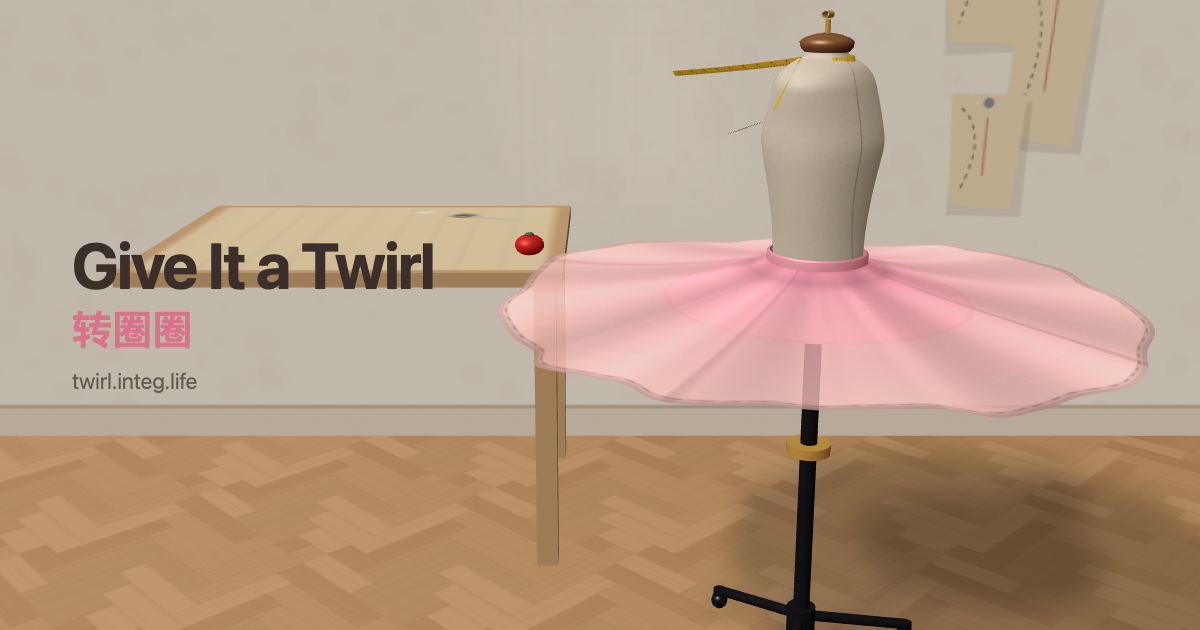
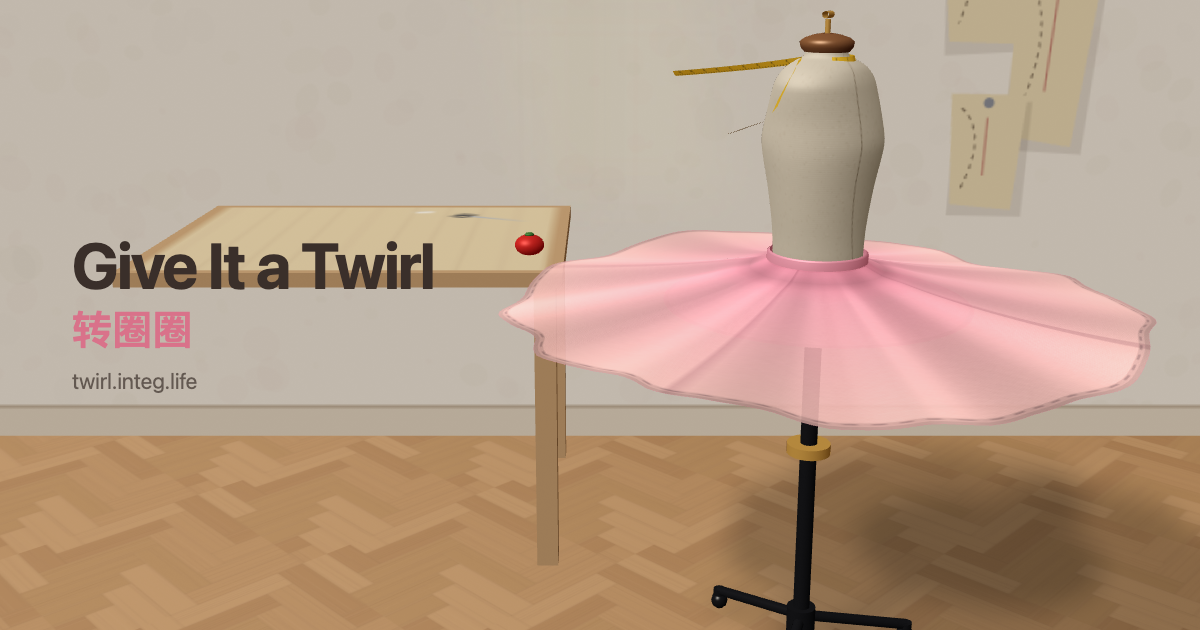
twirl phase 2 review fixes: still finger brakes, swap lift never shows the inside, even denim folds
- fingerV returns 0 once the newest sample is over 60 ms old: a held still finger brakes and wraps
- outgoing skirt collapses its flare, lifts 0.9 m and fades out without its inside pass (0% underside)
- hem flutter phase follows the spin's sign (always runs against it)
- chiffon alpha 0.9, slip longer (drop x0.92): the pole no longer ghosts through at rest
- monotonic hip floor for every circle skirt; denim folds even, lighter creases
- harness: shot=swap (&to=, &after=)

diff --git a/src/twirl/gores.ts b/src/twirl/gores.ts
@@ -51,6 +51,8 @@ export interface Gores {
   hem(): { deg: number; rho: number; z: number }
   /** set every gore's flare (a skirt dropped over the form arrives with its hem spread) */
   spread(deg: number): void
+  /** pull every gore's flare toward its rest angle by factor k (0..1) and calm its swing */
+  relax(k: number): void
   /** world position of the outer layer at material u (0..1 round) and fraction f down */
   point(u: number, f: number): [number, number, number]
 }
@@ -115,12 +117,12 @@ function ringNoise(seed: number, terms = 4) {
 }
 
 /** Fold shape: uneven widths (a warped phase), seeded depths with two or three deep folds, slightly skewed. */
-function folds(seed: number, n: number) {
+function folds(seed: number, n: number, deepFolds = true) {
   const warp = ringNoise(seed + 1, 3)
   const r = rng(seed + 2)
-  const amp = Array.from({ length: n }, () => 0.7 + r() * 0.6)
+  const amp = Array.from({ length: n }, () => (deepFolds ? 0.7 + r() * 0.6 : 0.85 + r() * 0.3))
   const deep = [Math.floor(r() * n), Math.floor(r() * n), Math.floor(r() * n)]
-  for (const d of deep.slice(0, 2 + Math.floor(r() * 2))) amp[d] = 1.55 + r() * 0.3
+  if (deepFolds) for (const d of deep.slice(0, 2 + Math.floor(r() * 2))) amp[d] = 1.55 + r() * 0.3
   const ph = r() * TAU
   return (u: number) => {
     const x = u * n + warp(u) * 0.35 + ph / TAU
@@ -156,9 +158,11 @@ export function goreSkirt(id: FabricId, seed: number): Gores {
   // chiffon's slip: shorter, no folds, matte, inside the deepest fold
   const slip: Layer | null = id === 'chiffon' ? { cols: 48, rows: 12, su: 2, sv: 2, x: new Float32Array(48 * 12 * 3) } : null
   const layers = slip ? [slip, ...outs] : outs
-  const fold = pends.map((p, k) => folds(seed * 7 + k * 13 + 3, p.s.folds || 1))
+  // denim is stiff: even folds (a deep pair at the front would read as something else)
+  const fold = pends.map((p, k) => folds(seed * 7 + k * 13 + 3, p.s.folds || 1, id !== 'denim'))
   const hemN = ringNoise(seed * 3 + 11, 4)
-  let psi = 0, omega = 0, prevOmega = 0, t = 0
+  // wave: the flutter's phase, running back round the hem against the spin whichever way it turns
+  let psi = 0, omega = 0, prevOmega = 0, wave = 0
 
   // centre line of one column of one layer: radius and height at each row (and the polar angle there)
   const cRad = new Float32Array(64), cZ = new Float32Array(64), cPol = new Float32Array(64)
@@ -212,7 +216,7 @@ export function goreSkirt(id: FabricId, seed: number): Gores {
           // chiffon's valleys rest on the slip, never deeper
           if (slip && r > 0) rr = Math.max(rr, R_W + (SLIP_R / SLIP_Z) * 1.05 * (rad - R_W) + 0.004, floor)
           // the hem: a slight seeded undulation at rest; at speed a flutter of three waves running back round it
-          zz += f * f * (0.012 * hn * (1 - spin) + spin * (0.016 * f * Math.sin(3 * u * TAU + 7 * t) + 0.006 * Math.sin(8 * u * TAU + 13 * t)))
+          zz += f * f * (0.012 * hn * (1 - spin) + spin * (0.016 * f * Math.sin(3 * u * TAU + 7 * wave) + 0.006 * Math.sin(8 * u * TAU + 13 * wave)))
         } else {
           const m0 = (u * HEM + MAMIAN.PANEL / 2) % HEM
           const ring = TAU * rad
@@ -249,11 +253,15 @@ export function goreSkirt(id: FabricId, seed: number): Gores {
             // a flat panel lies on its chord, not on the circle
             rr = (rad * Math.cos(half)) / Math.cos(Math.min(1.2, Math.abs(a - centreA)))
           }
-          zz += spin * f * f * f * 0.03 * Math.sin(5 * u * TAU + 6 * t)
+          zz += spin * f * f * f * 0.03 * Math.sin(5 * u * TAU + 6 * wave)
         }
         const hr = hipR(zz)
         if (hr > 0) rr = Math.max(rr, hr + 0.004)
-        if (slip && r > 0) floor = Math.max(floor, hr + 0.004)
+        // cloth falls from the hip, never tucks back in under it
+        if (!mam && r > 0) {
+          floor = Math.max(floor, hr + 0.004)
+          rr = Math.max(rr, floor)
+        }
         const i = (r * cols + c) * 3
         x[i] = rr * Math.cos(az)
         x[i + 1] = rr * Math.sin(az)
@@ -265,7 +273,7 @@ export function goreSkirt(id: FabricId, seed: number): Gores {
 
   // the slip: the chiffon's own centre line pulled in toward the waist (radius x SLIP_R, drop x SLIP_Z), so it
   // hangs inside the folds at rest and is a smaller ring under the disc at speed
-  const SLIP_R = 0.4, SLIP_Z = 0.85
+  const SLIP_R = 0.4, SLIP_Z = 0.92
   const buildSlip = () => {
     if (!slip) return
     const p = main
@@ -307,7 +315,7 @@ export function goreSkirt(id: FabricId, seed: number): Gores {
       prevOmega = w
       for (let s = 0; s < n; s++) {
         for (const p of pends) p.step(h, w, acc)
-        t += h
+        wave += h * Math.sign(w)
       }
       psi = ps
       omega = w
@@ -328,6 +336,15 @@ export function goreSkirt(id: FabricId, seed: number): Gores {
       }
       const rho = sr / cols, z = sz / cols
       return { deg: (Math.atan2(rho - R_W, WAIST_Z - z) * 180) / Math.PI, rho, z }
+    },
+    relax(k) {
+      for (const p of pends)
+        for (let i = 0; i < p.s.N; i++) {
+          p.th[i] = p.s.th0 + (p.th[i] - p.s.th0) * k
+          p.thv[i] *= k
+          p.ph[i] *= k
+          p.phv[i] *= k
+        }
     },
     spread(deg) {
       for (const p of pends) p.th.fill(Math.max(p.s.th0, Math.min(p.s.thMax, deg * D2R)))

diff --git a/src/game.ts b/src/game.ts
@@ -19,8 +19,8 @@ export const FABRICS: FabricId[] = ['chiffon', 'denim', 'mamian', 'tulle']
 
 const LOOKS: Record<string, ClothLook> = {
   slip: { tex: 'slip', sh: [6, 0.03, 6, 0.03], fab: [0.08, 0, 0.45], alpha: 1, uvs: [4, 1], lining: [0.95, 0.9, 0.92], shadow: 0.9 },
-  chiffon: { tex: 'chiffon', sh: [10, 0.07, 14, 0.08], fab: [0.24, 0.3, 0.42], alpha: 0.8, uvs: [1, 1], lining: [0.92, 0.86, 0.88], shadow: 0.5 },
-  denim: { tex: 'denim', sh: [6, 0.04, 6, 0.04], fab: [0.1, 0, 0.55], alpha: 1, uvs: [1, 1], lining: [2.1, 1.9, 1.55], shadow: 0.9 },
+  chiffon: { tex: 'chiffon', sh: [10, 0.07, 14, 0.08], fab: [0.24, 0.3, 0.42], alpha: 0.9, uvs: [1, 1], lining: [0.92, 0.86, 0.88], shadow: 0.5 },
+  denim: { tex: 'denim', sh: [6, 0.04, 6, 0.04], fab: [0.1, 0, 0.3], alpha: 1, uvs: [1, 1], lining: [2.1, 1.9, 1.55], shadow: 0.9 },
   mamian: { tex: 'mamian', sh: [48, 0.5, 10, 0.1], fab: [0.22, 0.05, 0.5], alpha: 1, uvs: [1, 1], lining: [0.8, 0.8, 0.85], inner: [0.36, 0.44, 0.68], shadow: 0.9 },
   tulle: { tex: 'tulle', sh: [8, 0.06, 8, 0.06], fab: [0.45, 0.6, 0.2], alpha: 0.55, uvs: [5, 2], lining: [0.95, 0.92, 1], shadow: 0.35 },
 }
@@ -427,7 +427,7 @@ export function startGame(canvas: HTMLCanvasElement, hooks: Hooks, startFabric: 
   }
   const skirtM = () => {
     if (swapT < 0) return undefined
-    const z = swapNext ? Math.pow(swapT / 0.25, 2) * 1.4 : dropZ
+    const z = swapNext ? Math.pow(swapT / 0.25, 2) * 0.9 : dropZ
     return new Float32Array([1, 0, 0, 0, 0, 1, 0, 0, 0, 0, 1, 0, 0, 0, z, 1])
   }
 
@@ -606,7 +606,8 @@ export function startGame(canvas: HTMLCanvasElement, hooks: Hooks, startFabric: 
   let touched = false
   const Rpx = () => Math.min(0.3 * W, 220)
   const fingerV = () => {
-    if (trail.length < 2) return 0
+    // a finger that stopped moving sends no events: its last sample going stale means it is still
+    if (trail.length < 2 || performance.now() - trail[trail.length - 1][1] > 60) return 0
     const a = trail[0], b = trail[trail.length - 1]
     const dtm = (b[1] - a[1]) / 1000
     return dtm > 0.004 ? (b[0] - a[0]) / Rpx() / dtm : 0
@@ -713,7 +714,11 @@ export function startGame(canvas: HTMLCanvasElement, hooks: Hooks, startFabric: 
     alpha = (omega - w0) / dt
     stand.psi = ps
     stand.omega = (psi - p0) / dt
-    sk.step(dt, ps, stand.omega)
+    // lifted off by its waist, the outgoing skirt stops flying and hangs: the camera never sees up into it
+    if (swapNext) {
+      sk.step(dt, ps, 0)
+      sk.relax(Math.exp(-dt / 0.05))
+    } else sk.step(dt, ps, stand.omega)
     sk.update()
     stepTape(dt, p0, ps)
     stepTag(dt)
@@ -754,7 +759,7 @@ export function startGame(canvas: HTMLCanvasElement, hooks: Hooks, startFabric: 
     const { vp, eye } = view()
     return {
       vp, eye, psi: psi + nudge, tilt: tiltM(), dizzy: dizzyFace, band: fabric, bandM: m, debug: dbg,
-      cloth: surfs.map((s, k) => ({ surf: s, look: looks[k], m })),
+      cloth: surfs.map((s, k) => ({ surf: s, look: looks[k], m, fade: swapNext ? Math.max(0, 1 - swapT / 0.25) : undefined })),
       dyn: { v: dynV, i: dynIdx, tapeN, tagN: 6, strN: 6 },
       items: { v: itV, i: itIdx, n: nItems },
     }
@@ -826,6 +831,13 @@ export function startGame(canvas: HTMLCanvasElement, hooks: Hooks, startFabric: 
       throwItem(2, 0.13, false, 0.5, v)
       throwItem(3, 0.09, false, 0.48, v)
       hold(CAP, Number(q.get('after') ?? 0.35))
+    } else if (shot === 'swap') {
+      // tap a hanger at full flare: the skirt lifts off (the worst case for seeing under it)
+      settle(1)
+      ramp(CAP, 1.5)
+      hold(CAP, 2)
+      swap((q.get('to') as FabricId) || 'denim')
+      hold(CAP, Number(q.get('after') ?? 0.15))
     } else if (shot.startsWith('t')) {
       settle(1)
       ramp(TAU, 1.2)

diff --git a/src/twirl/render.ts b/src/twirl/render.ts
@@ -442,12 +442,17 @@ export class Renderer {
       at('a_k', 1, 12)
       at('a_uv', 2, 13)
       at('a_m', 1, 15)
+      const fade = l.fade ?? 1
       gl.enable(gl.CULL_FACE)
-      gl.cullFace(gl.FRONT)
-      gl.drawElements(gl.TRIANGLES, L.n, gl.UNSIGNED_SHORT, 0)
+      // a skirt being lifted off fades out and its inside is not drawn (no looking into it through the waist)
+      if (fade >= 1 || f.debug === 'ctl') {
+        gl.cullFace(gl.FRONT)
+        gl.drawElements(gl.TRIANGLES, L.n, gl.UNSIGNED_SHORT, 0)
+      }
       if (f.debug !== 'ctl') {
         gl.cullFace(gl.BACK)
-        const blend = k.alpha < 1 && !f.debug
+        const blend = (k.alpha < 1 || fade < 1) && !f.debug
+        gl.uniform1f(cp.u.u_alpha, k.alpha * fade)
         if (blend) {
           gl.enable(gl.BLEND)
           gl.blendFunc(gl.SRC_ALPHA, gl.ONE_MINUS_SRC_ALPHA)
@@ -471,7 +476,8 @@ export interface Frame {
   band: string
   /** the waistband's own offset (lifted during a swap) */
   bandM?: M4
-  cloth: { surf: Surface; look: ClothLook; m?: M4 }[]
+  /** fade: 0..1 while a skirt is lifted off (drawn see-through, outside only) */
+  cloth: { surf: Surface; look: ClothLook; m?: M4; fade?: number }[]
   debug: string
   dyn: { v: Float32Array; i: Uint16Array; tapeN: number; tagN: number; strN: number }
   items: { v: Float32Array; i: Uint16Array; n: number }
